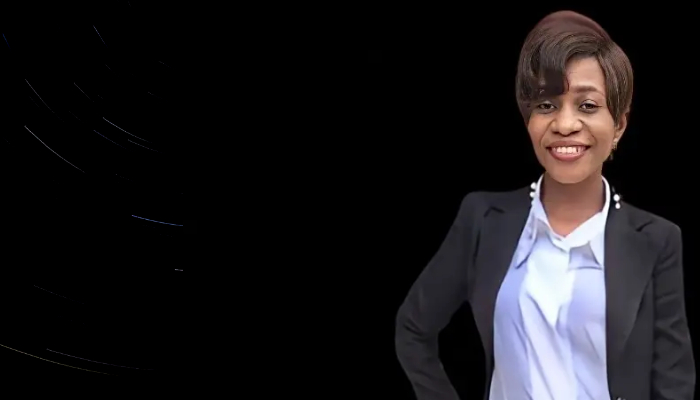
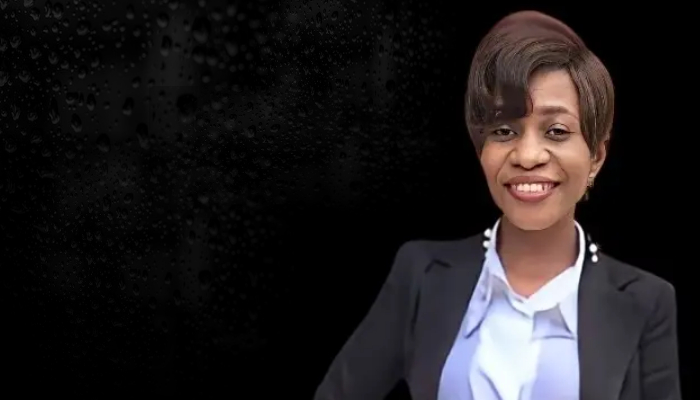
home page bg image and h2 element modified

diff --git a/index.html b/index.html
@@ -45,7 +45,7 @@
       <h1><a href="index.html">Miranda Anya</a></h1>
       <!-- Uncomment below if you prefer to use an image logo -->
       <!-- <a href="index.html" class="mr-auto"><img src="assets/img/logo.png" alt="" class="img-fluid"></a> -->
-      <h2>Passionate <span><b>tech entrepreneur,</b></span> transforming ideas into innovation </h2>
+      <h2>A passionate <span><b>tech entrepreneur,</b></span> transforming ideas into innovation </h2>
       <nav id="navbar" class="navbar">
         <ul>
           <li><a class="nav-link active" href="#header">Home</a></li>
@@ -752,7 +752,7 @@ through technology
           <div class="error-message"></div>
           <div class="sent-message">Your message has been sent. Thank you!</div>
         </div>
-        <div class="text-center"><button type="submit">Send Message</button></div>
+        <div class="text-center"><button type="submit" href="mailto:ambangmiranda@gmail.com">Send Message</button></div>
       </form>
 
     </div>

diff --git a/assets/css/style.css b/assets/css/style.css
@@ -14,7 +14,7 @@ body::before {
   position: fixed;
   background: #fcfcfc;  /* fallback colour. Make sure this is just one solid colour. */
   background: -webkit-linear-gradient(rgba(0, 0, 0, 0.8), rgba(0, 0, 0, 0.8)), url("../img/bg.png") top right no-repeat;;
-  background: linear-gradient(rgba(0, 0, 71, 0.226), rgba(63, 22, 0, 0.527)), url("../img/bg.png") top right no-repeat;; 
+  background: linear-gradient(rgba(0, 0, 0, 0.384), rgba(2, 0, 26, 0.527)), url("../img/bg.png") top right no-repeat;; 
   /* background: url("../img/bg.jpg");  */
   /* box-shadow: inset 0 0 0 2000px rgba(4, 0, 255, 0.521); */
   background-size: cover;

diff --git a/forms/contact.php b/forms/contact.php
@@ -1,13 +1,5 @@
 <?php
-  /**
-  * Requires the "PHP Email Form" library
-  * The "PHP Email Form" library is available only in the pro version of the template
-  * The library should be uploaded to: vendor/php-email-form/php-email-form.php
-  * For more info and help: https://bootstrapmade.com/php-email-form/
-  */
-
-  // Replace contact@example.com with your real receiving email address
-  $receiving_email_address = 'contact@example.com';
+  $receiving_email_address = 'ambangmiranda@gmail.com';
 
   if( file_exists($php_email_form = '../assets/vendor/php-email-form/php-email-form.php' )) {
     include( $php_email_form );
